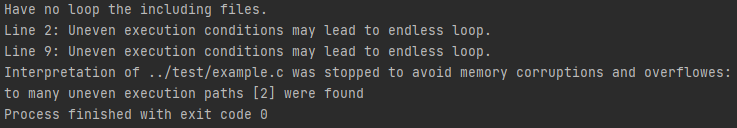
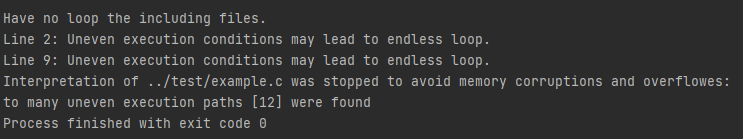
interpretation flexability fix 1.2

diff --git a/main.c b/main.c
@@ -14,7 +14,7 @@
 #include "memory.h"
 
 #include "fileUtils.h"
-#define CRITICAL_EXE_ST 2
+#define CRITICAL_EXE_ST 12
 #define WORK_WITH_MEMORY
 
 Expression *interpretFile(Memory *m, FileData *file) {
@@ -90,7 +90,7 @@ Expression *interpretFile(Memory *m, FileData *file) {
                              (bools[u].hasNoUnevenExecutionPath || bools[u].builtInIter) ||
                              bools[u].fullInit && bools[u].itCnt && bools[u].nonConstIter || bools[u].isBreak;
             if (!bools[u].state) {
-                printf("Line %d: Uneven execution conditions may lead to endless loop.\n", bools[u].line);
+                if (bools[u].isBroken == 0)printf("Line %d: Uneven execution conditions may lead to endless loop.\n", bools[u].line);
 #ifdef __INTERPRET_DEBUG__
                 printf("\n\n");
                 for (int y = 0; y < bcnt; y++){
@@ -107,6 +107,7 @@ Expression *interpretFile(Memory *m, FileData *file) {
                 MEMORY_NEW_NUM(*m, Int, e[i].code[1], 0);
                 i = executionLineNum+1;
                 executionPathCorruption++;
+                bools[u].isBroken = 1;
                 continue;
             }}
 
@@ -166,7 +167,7 @@ Expression *interpretFile(Memory *m, FileData *file) {
                 }
             }
             else if (!bools[u].state) {
-                printf("Line %d: Uneven execution conditions may lead to endless loop.\n", bools[u].line);
+                if(bools[u].isBroken == 0)printf("Line %d: Uneven execution conditions may lead to endless loop.\n", bools[u].line);
 #ifdef __INTERPRET_DEBUG__
                 printf("\n\n");
                 for (int y = 0; y < bcnt; y++){
@@ -182,6 +183,7 @@ Expression *interpretFile(Memory *m, FileData *file) {
                 }
                 MEMORY_NEW_NUM(*m, Int, e[i].code[1], 0);
                 executionPathCorruption++;
+                bools[u].isBroken = 1;
                 i = executionLineNum+1;
                 continue;
             }

diff --git a/Calculator/parser.c b/Calculator/parser.c
@@ -78,6 +78,7 @@ int addExpression(Expression *expr, int exprSize, char **src, int srcSize, Stack
         boolStack[*bcnt].state = 0;
         boolStack[*bcnt].itCnt = 0;
         boolStack[*bcnt].builtInIter = 0;
+        boolStack[*bcnt].isBroken = 0;
 
         char **tmpEnd = (char **) malloc(2 * sizeof(char *));
         tmpEnd[0] = (char *) malloc(10 * sizeof(char));
@@ -164,6 +165,7 @@ int addExpression(Expression *expr, int exprSize, char **src, int srcSize, Stack
         boolStack[*bcnt].hasNoUnevenExecutionPath = 1;
         boolStack[*bcnt].itCnt = 0;
         boolStack[*bcnt].builtInIter = 0;
+        boolStack[*bcnt].isBroken = 0;
 
         char **ifCond = (char **) malloc(25 * sizeof(char *));
         boolStack[*bcnt].expr = (char **) malloc(25 * sizeof(char *));
@@ -223,6 +225,7 @@ int addExpression(Expression *expr, int exprSize, char **src, int srcSize, Stack
         boolStack[*bcnt].state = 0;
         boolStack[*bcnt].builtInIter = 0;
         boolStack[*bcnt].itCnt = 0;
+        boolStack[*bcnt].isBroken = 0;
 
         i = 2;
         char **forInit = (char **) malloc(10 * sizeof(char *));

diff --git a/memory.h b/memory.h
@@ -68,6 +68,7 @@ struct boolean_e_c {
     int             state;
     int             hasNoUnevenExecutionPath;
     int             builtInIter;
+    int             isBroken;
 };
 
 typedef struct boolean_e_c bool;
